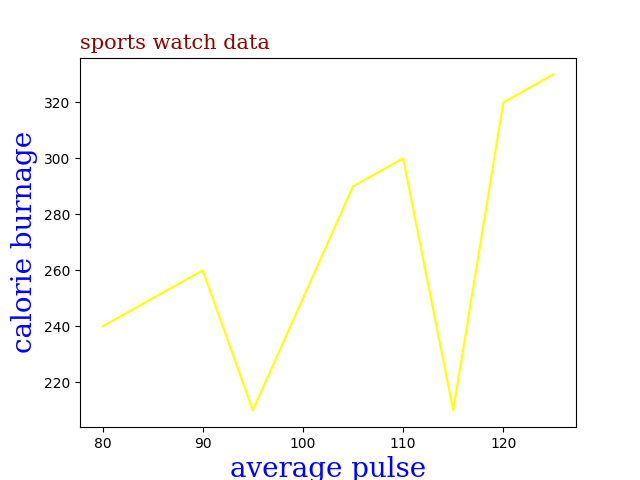
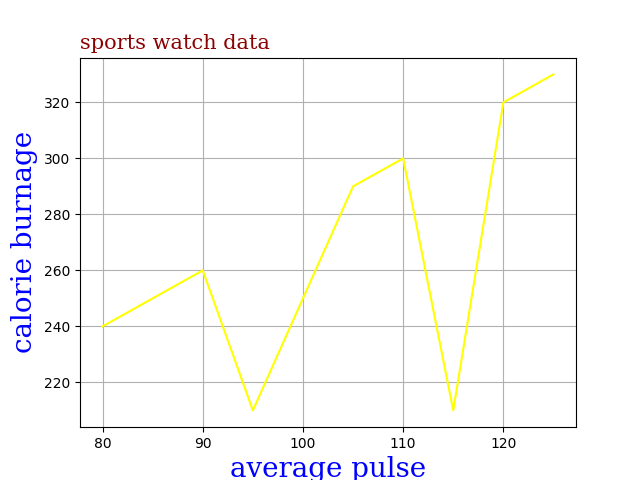
subplot and grid learned

diff --git a/matplot.py/labels.py b/matplot.py/labels.py
@@ -4,6 +4,7 @@ import numpy as np
 #title for the representation 
 #fonts for title and labels
 #position the title (loc)
+#grid(): for grids
 a=np.array([80, 85, 90, 95, 100, 105, 110, 115, 120, 125])
 b=np.array([240, 250, 260, 210, 250, 290, 300, 210, 320, 330])
 plt.plot(a,b,c="yellow")
@@ -12,5 +13,6 @@ font2={"family":"serif","color":"darkred","size":15}
 plt.xlabel("average pulse",fontdict=font1)
 plt.ylabel("calorie burnage",fontdict=font1)
 plt.title("sports watch data",fontdict=font2,loc="left")
-
+plt.grid()
+#can add axis="x" or "y", color="" ,linestyle,linewidth inside the braces
 plt.savefig("pics3.png")

diff --git a/matplot.py/subplot.py b/matplot.py/subplot.py
@@ -1,0 +1,16 @@
+import matplotlib.pyplot as plt
+import numpy as np
+#subplot function can draw multiple plots in one figure
+#subplot(rows,cols,which projection)
+#plot 1:
+x=np.array([0,1,2,4])
+y=np.array([9,1,5,7])
+plt.subplot(1,2,1)
+plt.plot(x,y)
+
+#plot 2 :
+x=np.array([0,1,4,5])
+y=np.array([4,3,8,10])
+plt.subplot(1,2,2)
+plt.plot(x,y)
+plt.savefig("pics4.png")
